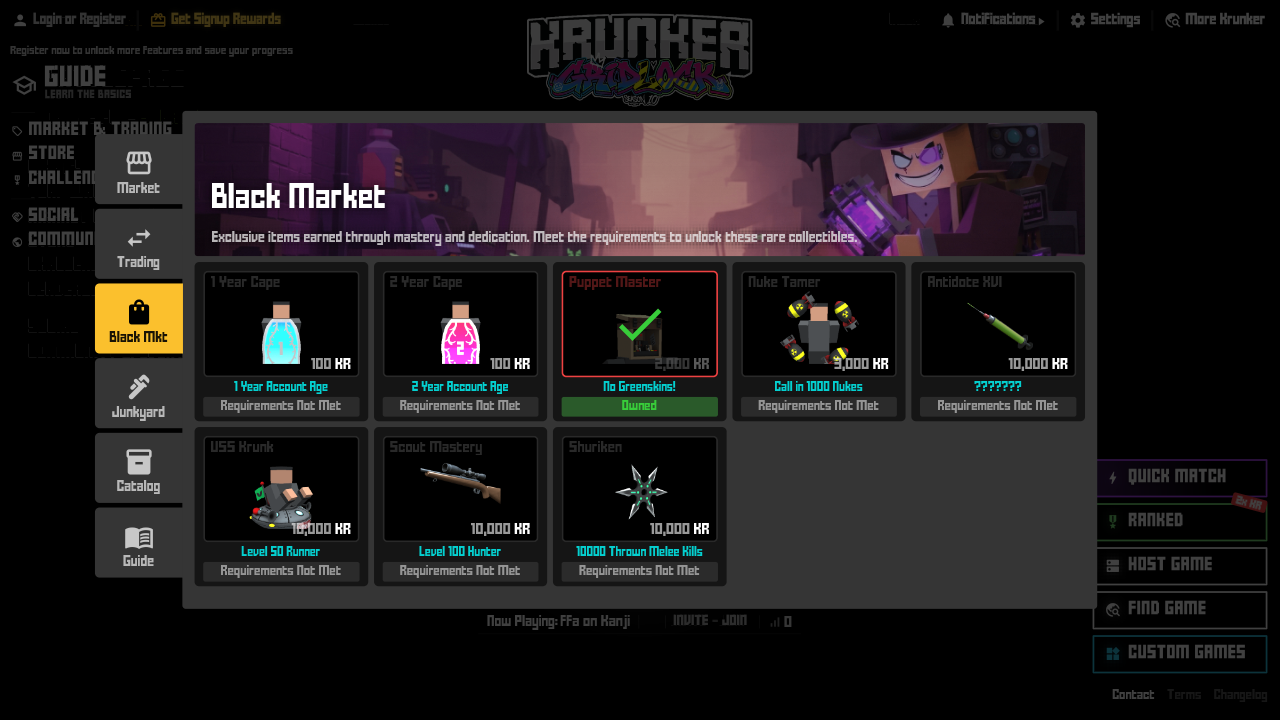
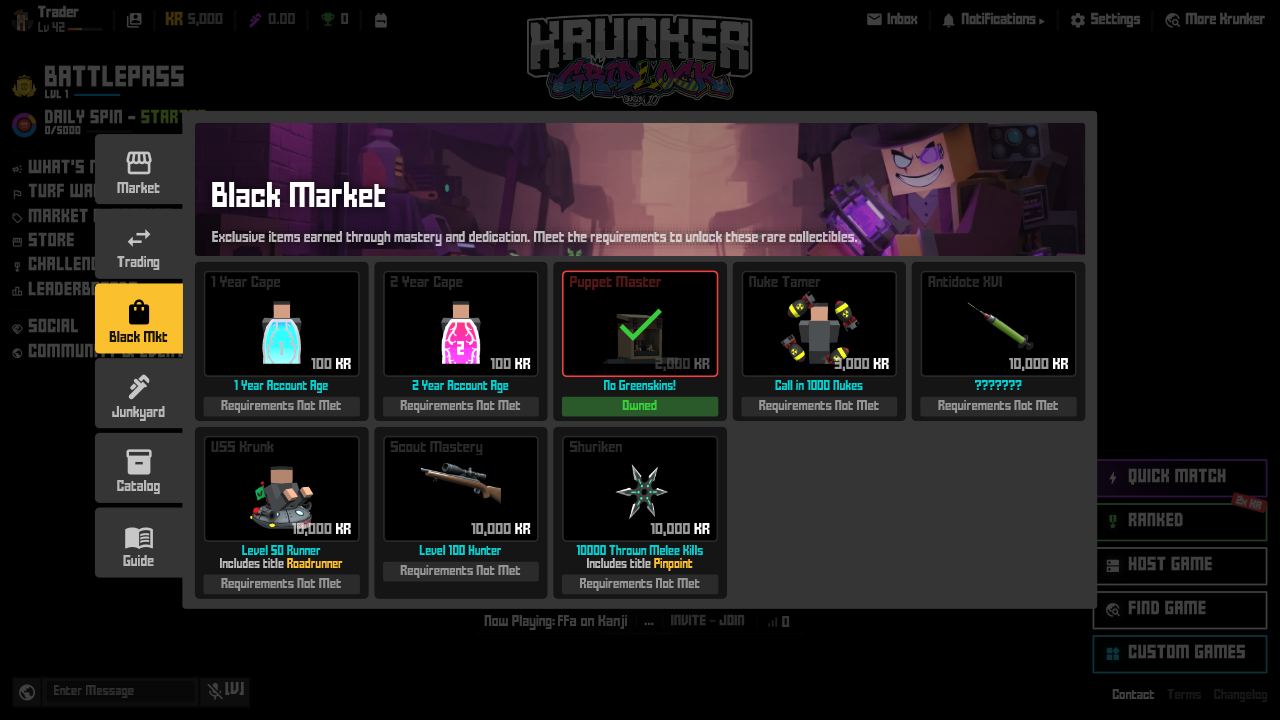
html engine: Liberation Sans is the first system fallback; kn-market-blackm re-captured
- text.c's latin fallback list tried DejaVu Sans first. Krunker's pages ask for Helvetica / Arial,
  which Chrome on Linux gets from fontconfig as Liberation Sans (their metric alias), and the uidiff
  references were rendered with it (the old desktop had no DejaVu at the Fedora path). A Debian host
  always has fonts-dejavu-core, so it laid that text out wider: kn-editor-ai ai-signin 6.2,
  ai-empty 5.1, ai-composer 3.1. Liberation first (Fedora, Debian, Arch paths), then DejaVu.
  Sharded uidiff on the devbox: 738 -> 742 passed, 97 -> 93 failed, nothing newly failing.
- doc/ref/krunknative/v10-market/blackm.png was KrunkNative's own Oct 15 capture. Since then the
  Black Market cards that grant a title say so ("Includes title Roadrunner / Pinpoint", fef2b21e5),
  the menu behind the popup changed and the engine's text placement moved; popup 5.5 -> 0.000.

diff --git a/client/src/html/engine/text.c b/client/src/html/engine/text.c
@@ -350,12 +350,17 @@ static void text_add_fallbacks(TextSystem *ts) {
             return;
         }
     }
+    /* Liberation Sans first: Krunker's pages ask for Helvetica / Arial, which Chrome on Linux gets from
+     * fontconfig as Liberation Sans (their metric alias), and the uidiff references were rendered with it.
+     * DejaVu Sans before it made a Debian host (fonts-dejavu-core is always there) lay text out wider */
     static const char *const latin[] = {
+        "/usr/share/fonts/liberation-sans-fonts/LiberationSans-Regular.ttf",
+        "/usr/share/fonts/truetype/liberation/LiberationSans-Regular.ttf",
+        "/usr/share/fonts/liberation/LiberationSans-Regular.ttf",
+        "/usr/share/fonts/TTF/LiberationSans-Regular.ttf",
         "/usr/share/fonts/dejavu-sans-fonts/DejaVuSans.ttf",
         "/usr/share/fonts/truetype/dejavu/DejaVuSans.ttf",
         "/usr/share/fonts/TTF/DejaVuSans.ttf",
-        "/usr/share/fonts/liberation-sans-fonts/LiberationSans-Regular.ttf",
-        "/usr/share/fonts/truetype/liberation/LiberationSans-Regular.ttf",
         "/usr/share/fonts/google-noto-vf/NotoSans[wght].ttf",
         "/usr/share/fonts/truetype/noto/NotoSans-Regular.ttf",
         "/System/Library/Fonts/Supplemental/Arial.ttf",
